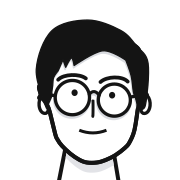
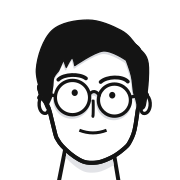
Turn the link-preview portrait to a three-quarter, drop the URL line
The card renders its own pose now: aimed left toward the name, with the rig's
TRAVEL raised past its 76 default because that slider caps how far the head
will turn. Icons keep rendering frontal at the defaults.

Turning the head moves it within the drawing's coordinate space, so the fixed
crop clipped the chin. The card's viewBox is measured from the rendered
content instead, which also means it survives changes to the pose.

The erictliu.com line is redundant next to the link itself.

diff --git a/make-icons.py b/make-icons.py
@@ -26,6 +26,13 @@ HEAD_VIEWBOX = "332 110 404 404"
 
 CHROME = "/Applications/Google Chrome.app/Contents/MacOS/Google Chrome"
 
+# How the portrait is posed in the link preview: aim 0.5 looks straight out and
+# lower turns the head to its left, toward the name. TRAVEL is the rig's own
+# slider and caps how far it will turn, so it is raised past its 76 default to
+# get a real three-quarter. The icons stay frontal at the defaults.
+OG_AIM = 0.0
+OG_TRAVEL = 140
+
 # Pin the random theme to PAIRS[0] (black on cream), point the eyes straight
 # ahead, let the springs settle, then freeze so the dump is a still frame.
 # settle() must stay short: idle drift re-engages after ~5.5s, so a long settle
@@ -35,8 +42,13 @@ HARNESS_TAIL = """
 <script>
 (function wait(){
   if (window.__erk) {
-    __erk.aim(0.5, 0.5);
-    __erk.settle(1);
+    var tr = __TRAVEL__;
+    if (tr) {
+      var el = document.querySelector('input[data-p="travel"]');
+      if (el) { el.value = tr; el.dispatchEvent(new Event('input', {bubbles: true})); }
+    }
+    __erk.aim(__AIMX__, 0.5);
+    __erk.settle(__SETTLE__);
     window.requestAnimationFrame = function(){ return 0; };
     document.documentElement.setAttribute('data-render-ready', '1');
   } else setTimeout(wait, 25);
@@ -45,16 +57,24 @@ HARNESS_TAIL = """
 """
 
 
-def rendered_dom() -> str:
-    """index.html as the browser has it after the script has run and settled."""
+def rendered_dom(aim_x=0.5, settle=1.0, travel=None) -> str:
+    """index.html as the browser has it after the script has run and settled.
+
+    aim_x is where the eyes are pointed across the stage: 0.5 looks straight
+    out, lower values turn the head to its left. travel overrides the rig's
+    TRAVEL slider, which caps how far the head will turn.
+    """
     page = (HERE / "index.html").read_text()
     page = page.replace(
         '<script src="./support.js"></script>',
         HARNESS_HEAD + '<script src="./support.js"></script>', 1)
+    tail = (HARNESS_TAIL.replace("__AIMX__", repr(float(aim_x)))
+                        .replace("__SETTLE__", repr(float(settle)))
+                        .replace("__TRAVEL__", repr(travel) if travel else "0"))
 
     # Must sit beside index.html so ./support.js still resolves.
     harness = HERE / ".render.html"
-    harness.write_text(page + HARNESS_TAIL)
+    harness.write_text(page + tail)
     try:
         dom = subprocess.run(
             [CHROME, "--headless", "--disable-gpu", "--no-sandbox",
@@ -112,6 +132,29 @@ def render(svg_text: str, width: int, height: int, out: Path) -> None:
     Path(tmp).unlink()
 
 
+def content_viewbox(inner: str, pad: float = 1.2) -> str:
+    """A square viewBox framing whatever the drawing actually covers.
+
+    Turning the head moves it within the drawing's coordinate space, so a fixed
+    crop clips the chin. Render on transparency, let ImageMagick report the
+    trim box, and centre a square on it. 1 user unit renders as 1px here, so
+    the box reads straight back as viewBox coordinates.
+    """
+    probe = (f'<svg xmlns="http://www.w3.org/2000/svg" viewBox="0 0 960 720" '
+             f'width="960" height="720">{inner}</svg>')
+    with tempfile.TemporaryDirectory() as d:
+        png = Path(d) / "probe.png"
+        render(probe, 960, 720, png)
+        box = subprocess.run(["magick", str(png), "-format", "%@", "info:"],
+                             capture_output=True, text=True, check=True).stdout.strip()
+    w, rest = box.split("x")
+    h, x, y = rest.split("+")
+    w, h, x, y = int(w), int(h), int(x), int(y)
+    side = max(w, h) * pad
+    cx, cy = x + w / 2, y + h / 2
+    return f"{cx - side / 2:g} {cy - side / 2:g} {side:g} {side:g}"
+
+
 def main() -> None:
     inner = portrait_markup(rendered_dom())
     x, y, size, _ = (float(v) for v in HEAD_VIEWBOX.split())
@@ -146,11 +189,12 @@ def main() -> None:
             check=True,
         )
 
+    # Link preview: three-quarter view, turned toward the name on the left.
+    turned = portrait_markup(rendered_dom(aim_x=OG_AIM, settle=1.5, travel=OG_TRAVEL))
     og = f"""<svg xmlns="http://www.w3.org/2000/svg" width="1200" height="630" viewBox="0 0 1200 630">
 <rect width="1200" height="630" fill="{BG}"/>
-<svg x="655" y="60" width="510" height="510" viewBox="{HEAD_VIEWBOX}">{inner}</svg>
-<text x="105" y="330" font-family="Helvetica Neue, Helvetica, Arial, sans-serif" font-size="112" font-weight="500" letter-spacing="-3" fill="{INK}">eric liu</text>
-<text x="108" y="392" font-family="Menlo, ui-monospace, monospace" font-size="27" letter-spacing="5" fill="{MUTED}">ERICTLIU.COM</text>
+<svg x="655" y="55" width="520" height="520" viewBox="{content_viewbox(turned)}">{turned}</svg>
+<text x="105" y="352" font-family="Helvetica Neue, Helvetica, Arial, sans-serif" font-size="112" font-weight="500" letter-spacing="-3" fill="{INK}">eric liu</text>
 </svg>"""
     render(og, 1200, 630, HERE / "og.png")
 
